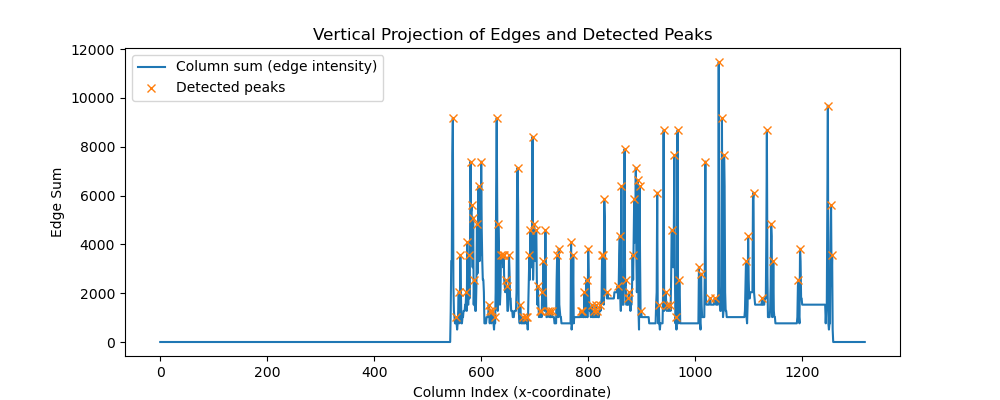
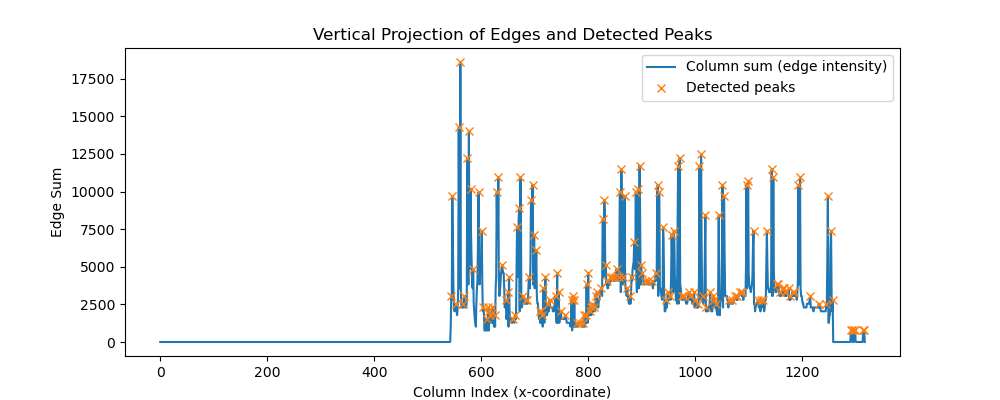
finding peak worked

diff --git a/src/montgomery/main.py b/src/montgomery/main.py
@@ -175,38 +175,13 @@ def test_vismont_on_one_image(file):
     )
     vismont = run_vismont(image_rgb, fretboard_mask_result)
     # vismont.plot_canny_and_fingertips(exclude_thumb=True)
-    # image = cv2.cvtColor(vismont.image, cv2.COLOR_RGB2GRAY)[vismont.mask]
     lines = helper.run_hough_line(vismont.canny)
     lines = [line for line in lines if helper.is_vertical(line)]
     helper.show_image_with_lines(vismont.canny, lines, gray=True)
-
-    edges = helper.dilate(vismont.canny)
-    column_sum = np.sum(edges, axis=0)  # shape: (width,)
-
-    from scipy.signal import find_peaks
-
-    # Normalize or just directly find peaks
-    # Peaks in column_sum correspond to vertical lines
-    peaks, properties = find_peaks(column_sum, height=20)  # Adjust height as needed
-
-    # 'peaks' now contains the x-coordinates of candidate fret lines
-    print("Found peaks at columns:", peaks)
-
-    # Optional: Visualize the projection and peaks
-    plt.figure(figsize=(10, 4))
-    plt.plot(column_sum, label="Column sum (edge intensity)")
-    plt.plot(peaks, column_sum[peaks], "x", label="Detected peaks")
-    plt.title("Vertical Projection of Edges and Detected Peaks")
-    plt.xlabel("Column Index (x-coordinate)")
-    plt.ylabel("Edge Sum")
-    plt.legend()
-    plt.show(block=True)
-
-    # Once you have 'peaks' as candidate fret line positions:
-    # Sort them (just to be sure) and these represent fret line x-coordinates.
-    fret_lines = np.sort(peaks)
-
-    print("Potential fret line x-coordinates:", fret_lines)
+    # edges = helper.dilate(vismont.canny)
+    peaks = helper.find_vertical_sum_peaks(
+        vismont.canny, height=1000, distance=25, prominence=500, show_image=True
+    )
 
     return vismont
 

diff --git a/src/montgomery/helper.py b/src/montgomery/helper.py
@@ -1,11 +1,12 @@
-import math
-from typing import List, Optional
 import cv2
+import math
 import os
 import torch
+from typing import List, Optional
 
 import numpy as np
 import matplotlib.pyplot as plt
+from scipy.signal import find_peaks
 
 # region verbose
 VERBOSE = False
@@ -231,6 +232,32 @@ def is_vertical(line, tolerance=10):
     # Allow a small tolerance, say ±5°
     tolerance = tolerance * math.pi / 180
     return abs(angle - math.pi / 2) < tolerance
+
+
+def find_vertical_sum_peaks(
+    image: np.ndarray,
+    height: int = 1000,
+    distance: int = 25,
+    prominence: int = 500,
+    show_image: bool = False,
+):
+    column_sum = np.sum(image, axis=0)
+    peaks, properties = find_peaks(
+        column_sum, height=height, distance=distance, prominence=prominence
+    )
+    peaks = np.sort(peaks)
+    print_verbose("Found peaks at columns:", peaks)
+
+    if show_image:
+        plt.figure(figsize=(10, 4))
+        plt.plot(column_sum, label="Column sum (edge intensity)")
+        plt.plot(peaks, column_sum[peaks], "x", label="Detected peaks")
+        plt.title("Vertical Projection of Edges and Detected Peaks")
+        plt.xlabel("Column Index (x-coordinate)")
+        plt.ylabel("Edge Sum")
+        plt.legend()
+        plt.show(block=True)
+    return peaks
 
 
 class Pitch:
